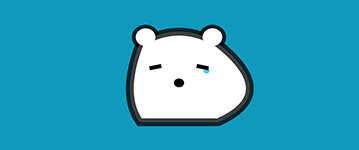
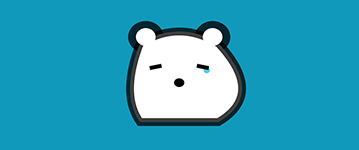
meta update

diff --git a/pixijs/180507/index.js b/pixijs/180507/index.js
@@ -22,8 +22,8 @@ var tk = 0;
 var bearContainer = new PIXI.Container();
 app.stage.addChild(bearContainer);
 
-var lineGraphic = new PIXI.Graphics;
-bearContainer.addChild(lineGraphic);
+var faceGraphic = new PIXI.Graphics;
+bearContainer.addChild(faceGraphic);
 
 app.stage.x = app.renderer.width * 0.5;
 app.stage.y = app.renderer.height * 0.5;
@@ -72,7 +72,8 @@ topEarsBackGraphic.scale.y = 0.9;
 
 var topEarsFrontGraphic = new PIXI.Graphics();
 bearContainer.addChildAt(topEarsFrontGraphic, 0);
-topEarsFrontGraphic.lineStyle(20, 0x000000, .75);
+// topEarsFrontGraphic.lineStyle(20, 0x000000, .75);
+topEarsFrontGraphic.lineStyle(40, 0x000000, .75);
 topEarsFrontGraphic.drawCircle(-85, -129, 25);
 topEarsFrontGraphic.drawCircle( 85, -129, 25);
 topEarsFrontGraphic.scale.y = 0.9;
@@ -197,14 +198,14 @@ app.ticker.add(function(delta) {
 	// console.log(Math.sin(tk * (Math.PI / 180)));
 	
 	var tmpPg = Math.sin(tk * (Math.PI / 180));
-	lineGraphic.clear();
-	lineGraphic.lineStyle(20, 0x000000, .75);
-	lineGraphic.beginFill(0xffffff, 1);
-	lineGraphic.moveTo(-100, -100);
-	// lineGraphic.lineTo( 100, -100);
+	faceGraphic.clear();
+	faceGraphic.lineStyle(20, 0x000000, .75);
+	faceGraphic.beginFill(0xffffff, 1);
+	faceGraphic.moveTo(-100, -100);
+	// faceGraphic.lineTo( 100, -100);
 
 	/* 頭頂 */
-	lineGraphic.quadraticCurveTo( 
+	faceGraphic.quadraticCurveTo( 
 									0,
 									-160,
 									100,
@@ -212,31 +213,31 @@ app.ticker.add(function(delta) {
 								);
 	
 	/*
-	lineGraphic.quadraticCurveTo(
+	faceGraphic.quadraticCurveTo(
 									100 + tmpPg * 100 + 20,
 									0 + 30,
 									100,
 									100
 								);
 	*/
-	lineGraphic.quadraticCurveTo(
+	faceGraphic.quadraticCurveTo(
 									mouseSpriteR.x,
 									0 + 30 + ((mouseSpriteR.y - 30) / (app.renderer.height * 0.5)) * 100,
 									100,
 									100
 								);
 
-	lineGraphic.lineTo(-100, 100);
+	faceGraphic.lineTo(-100, 100);
 
 	/*
-	lineGraphic.quadraticCurveTo(
+	faceGraphic.quadraticCurveTo(
 									-100 + tmpPg * -100 - 20,
 									0 + 30,
 									-100,
 									-100
 								);
 	*/
-	lineGraphic.quadraticCurveTo(
+	faceGraphic.quadraticCurveTo(
 									mouseSpriteL.x,
 									0 + 30 + ((mouseSpriteL.y - 30) / (app.renderer.height * 0.5)) * 100,
 									-100,
@@ -257,7 +258,7 @@ window.onresize = function (event){
   app.renderer.resize(w,h);
 
   app.stage.position.x = app.renderer.width * .5;
-  app.stage.position.y = app.renderer.height * .5;
+  app.stage.position.y = app.renderer.height * .5 + 15;
 
   if(mouseSpriteL){
 	mouseSpriteL.maxX = -100;
